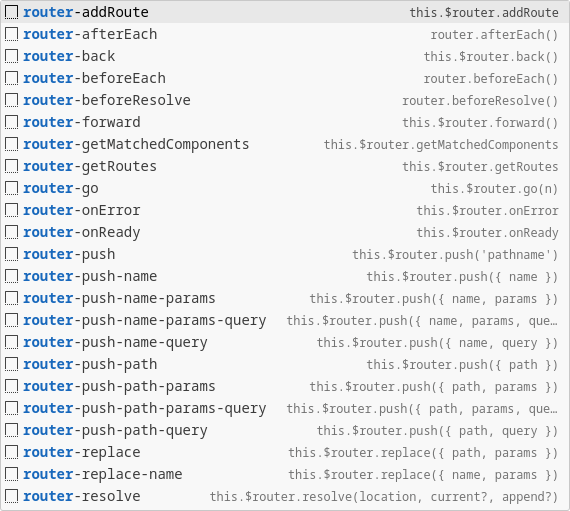
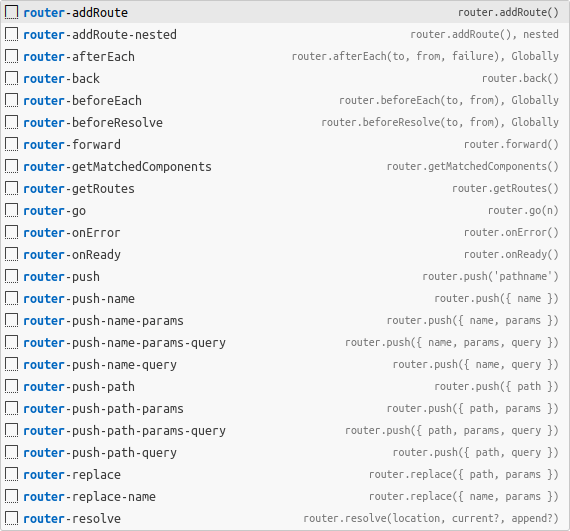
doc: upgrade

diff --git a/README.md b/README.md
@@ -249,14 +249,22 @@ Full prefix screenshot (Props) / 完整前缀截图:
 
 ### Instance Properties & Methods
 
-| Prefix                  | VS Code Suggest Match | Snippet                                                                                              |
-|-------------------------|-----------------------|------------------------------------------------------------------------------------------------------|
-| `vm.nextTick`           | `vmnt`                | this.$<strong><u>n</u></strong>ext<strong><u>T</u></strong>ick().then(() => {<br>&nbsp;&nbsp;<br>}); |
-| `await-vm.nextTick`     | `awvmnt`              | <strong><u>aw</u></strong>ait this.$<strong><u>n</u></strong>ext<strong><u>T</u></strong>ick();      |
-| `vm.emit`               | `vmem`                | this.$<strong><u>em</u></strong>it('event-name', param);                                             |
-| `nt` / `await-nextTick` | `awnt`                | await nextTick();                                                                                    |
-| `nextTick`              | `ntt`                 | nextTick().then(() => {<br>&nbsp;&nbsp;<br>});                                                       |
-| `emit`                  |                       | <strong><u>em</u></strong>it('event-name', param);                                                   |
+All instance properties and methods are triggered with the `vm` prefix, such as:
+
+所有实例属性和方法都以 `vm` 前缀触发，部分示例如下：
+
+| Prefix                       | VS Code Suggest Match | Snippet                                                                                              |
+|------------------------------|-----------------------|------------------------------------------------------------------------------------------------------|
+| `vm-nextTick`                |                       | this.$<strong><u>n</u></strong>ext<strong><u>T</u></strong>ick().then(() => {<br>&nbsp;&nbsp;<br>}); |
+| `await-vm-nextTick` / `vmnt` | `awvmnt`              | <strong><u>aw</u></strong>ait this.$<strong><u>n</u></strong>ext<strong><u>T</u></strong>ick();      |
+| `vm-emit`                    | `vmem`                | this.$<strong><u>em</u></strong>it('event-name', param);                                             |
+| `nt` / `await-nextTick`      | `awnt`                | await nextTick();                                                                                    |
+| `nextTick`                   | `ntt`                 | nextTick().then(() => {<br>&nbsp;&nbsp;<br>});                                                       |
+| `emit`                       |                       | <strong><u>em</u></strong>it('event-name', param);                                                   |
+
+Full prefix screenshot (Vue Instance) / 完整前缀截图 (Vue 实例):
+
+![](./art/vm.png)
 
 ### Vue Directives
 
@@ -289,23 +297,27 @@ The `v` prefix generates Vue Directives, some examples:
 
 ### Transition & TransitionGroup
 
-Props for customizing transition classes / 用于自定义过渡 class 的 prop
+(1). Props for customizing transition classes / 用于自定义过渡 class 的 prop
 
 ![](./art/custom-transition-classes.png)
 
-Events / 事件
+(2). Events / 事件
 
 ![](./art/transition-events.png)
 
-CSS Classes / CSS 类
+(3). CSS Classes / CSS 类
 
 `css-transitions`。
 
 ### Vue Router v3.x
 
-The `route-` or `router-` prefix generates Vue Router, Some examples:
+The `route-`/`vmroute-` or `router-`/`vmrouter-` prefix generates Vue Router, Some examples:
 
-通过 `route-` 或 `router-` 前缀触发，包涵大量 Vue Router v3.x API 代码片段，部分示例如下：
+如果是 Composition API，可通过 `route-` 或 `router-` 前缀触发；
+
+如果是 Options API，可通过 `vmroute-` 或 `vmrouter-` 前缀触发。
+
+包涵大量 Vue Router v3.x API 代码片段，部分示例如下：
 
 #### Vue Route v3.x - Script
 
@@ -326,9 +338,21 @@ The `route-` or `router-` prefix generates Vue Router, Some examples:
 
 Full prefix screenshot (Vue Router) / 完整前缀截图 (Vue 路由):
 
-![](./art/route.png)
+(1). Define Route / 定义路由
+
+![](./art/route-define.png)
+
+(2). Router Instance (Composition API) / Router 实例 (组合式接口)
 
 ![](./art/router.png)
+
+(3). Router Instance (Options API) / Router 实例 (选项式接口)
+
+![](./art/router-vm.png)
+
+(4). Route Property (Composition API) / Route 属性 (组合式接口)
+
+![](./art/route-vm.png)
 
 #### Vue Route v3.x - Custom Component
 
@@ -339,12 +363,12 @@ Full prefix screenshot (Vue Router) / 完整前缀截图 (Vue 路由):
 | router-link                    | rl                    | \<router-link :to=""\><br>&nbsp;&nbsp;<br>\</router-link\>                                                                                                                                                                                                      |
 | router-link-named-params-query | rlnpq                 | \<router-link<br>&nbsp;&nbsp;:to="{<br>&nbsp;&nbsp;&nbsp;&nbsp;name: 'routeName',<br>&nbsp;&nbsp;&nbsp;&nbsp;params: { property: 'value' },<br>&nbsp;&nbsp;&nbsp;&nbsp;query: { property: 'value' },<br>&nbsp;&nbsp;}"<br>><br>&nbsp;&nbsp;<br>\</router-link\> |
 | router-params                  |                       | params: {<br>&nbsp;&nbsp;property: 'value',<br>},                                                                                                                                                                                                               |
-| router-query                   |                       | params: {<br>&nbsp;&nbsp;property: 'value',<br>},                                                                                                                                                                                                               |
+| router-query                   |                       | query: {<br>&nbsp;&nbsp;property: 'value',<br>},                                                                                                                                                                                                                |
 | ...                            |                       |                                                                                                                                                                                                                                                                 |
 
 Full prefix screenshot (Vue Router Custom Component) / 完整前缀截图 (Vue 路由自定义组件):
 
-![](./art/vue-router-custom-component.png)
+![](./art/router-component.png)
 
 ### Why isn't there VueX? / 为什么没有 VueX
 
@@ -354,13 +378,13 @@ In Vue 2.x, Vuex is used, while in Vue 3.x, Pinia is adopted. There are costs as
 
 Vue 2.x 中采用 VueX，Vue 3.x 采用 Pinia，项目级别迁移有成本，组件级别复用耦合了状态管理库，用状态库没多大意义，状态共享完全可以通过 Vue [依赖注入](https://cn.vuejs.org/api/composition-api-dependency-injection.html)实现。
 
-
 ## Supported languages (file extensions)
 
 - JavaScript (`.js`)
 - TypeScript (`.ts`)
 - HTML (`.html`)
 - Vue (`.vue`)
+- CSS (`.css`)
 
 ## The `UNSAFE` prefix/suffix
 
